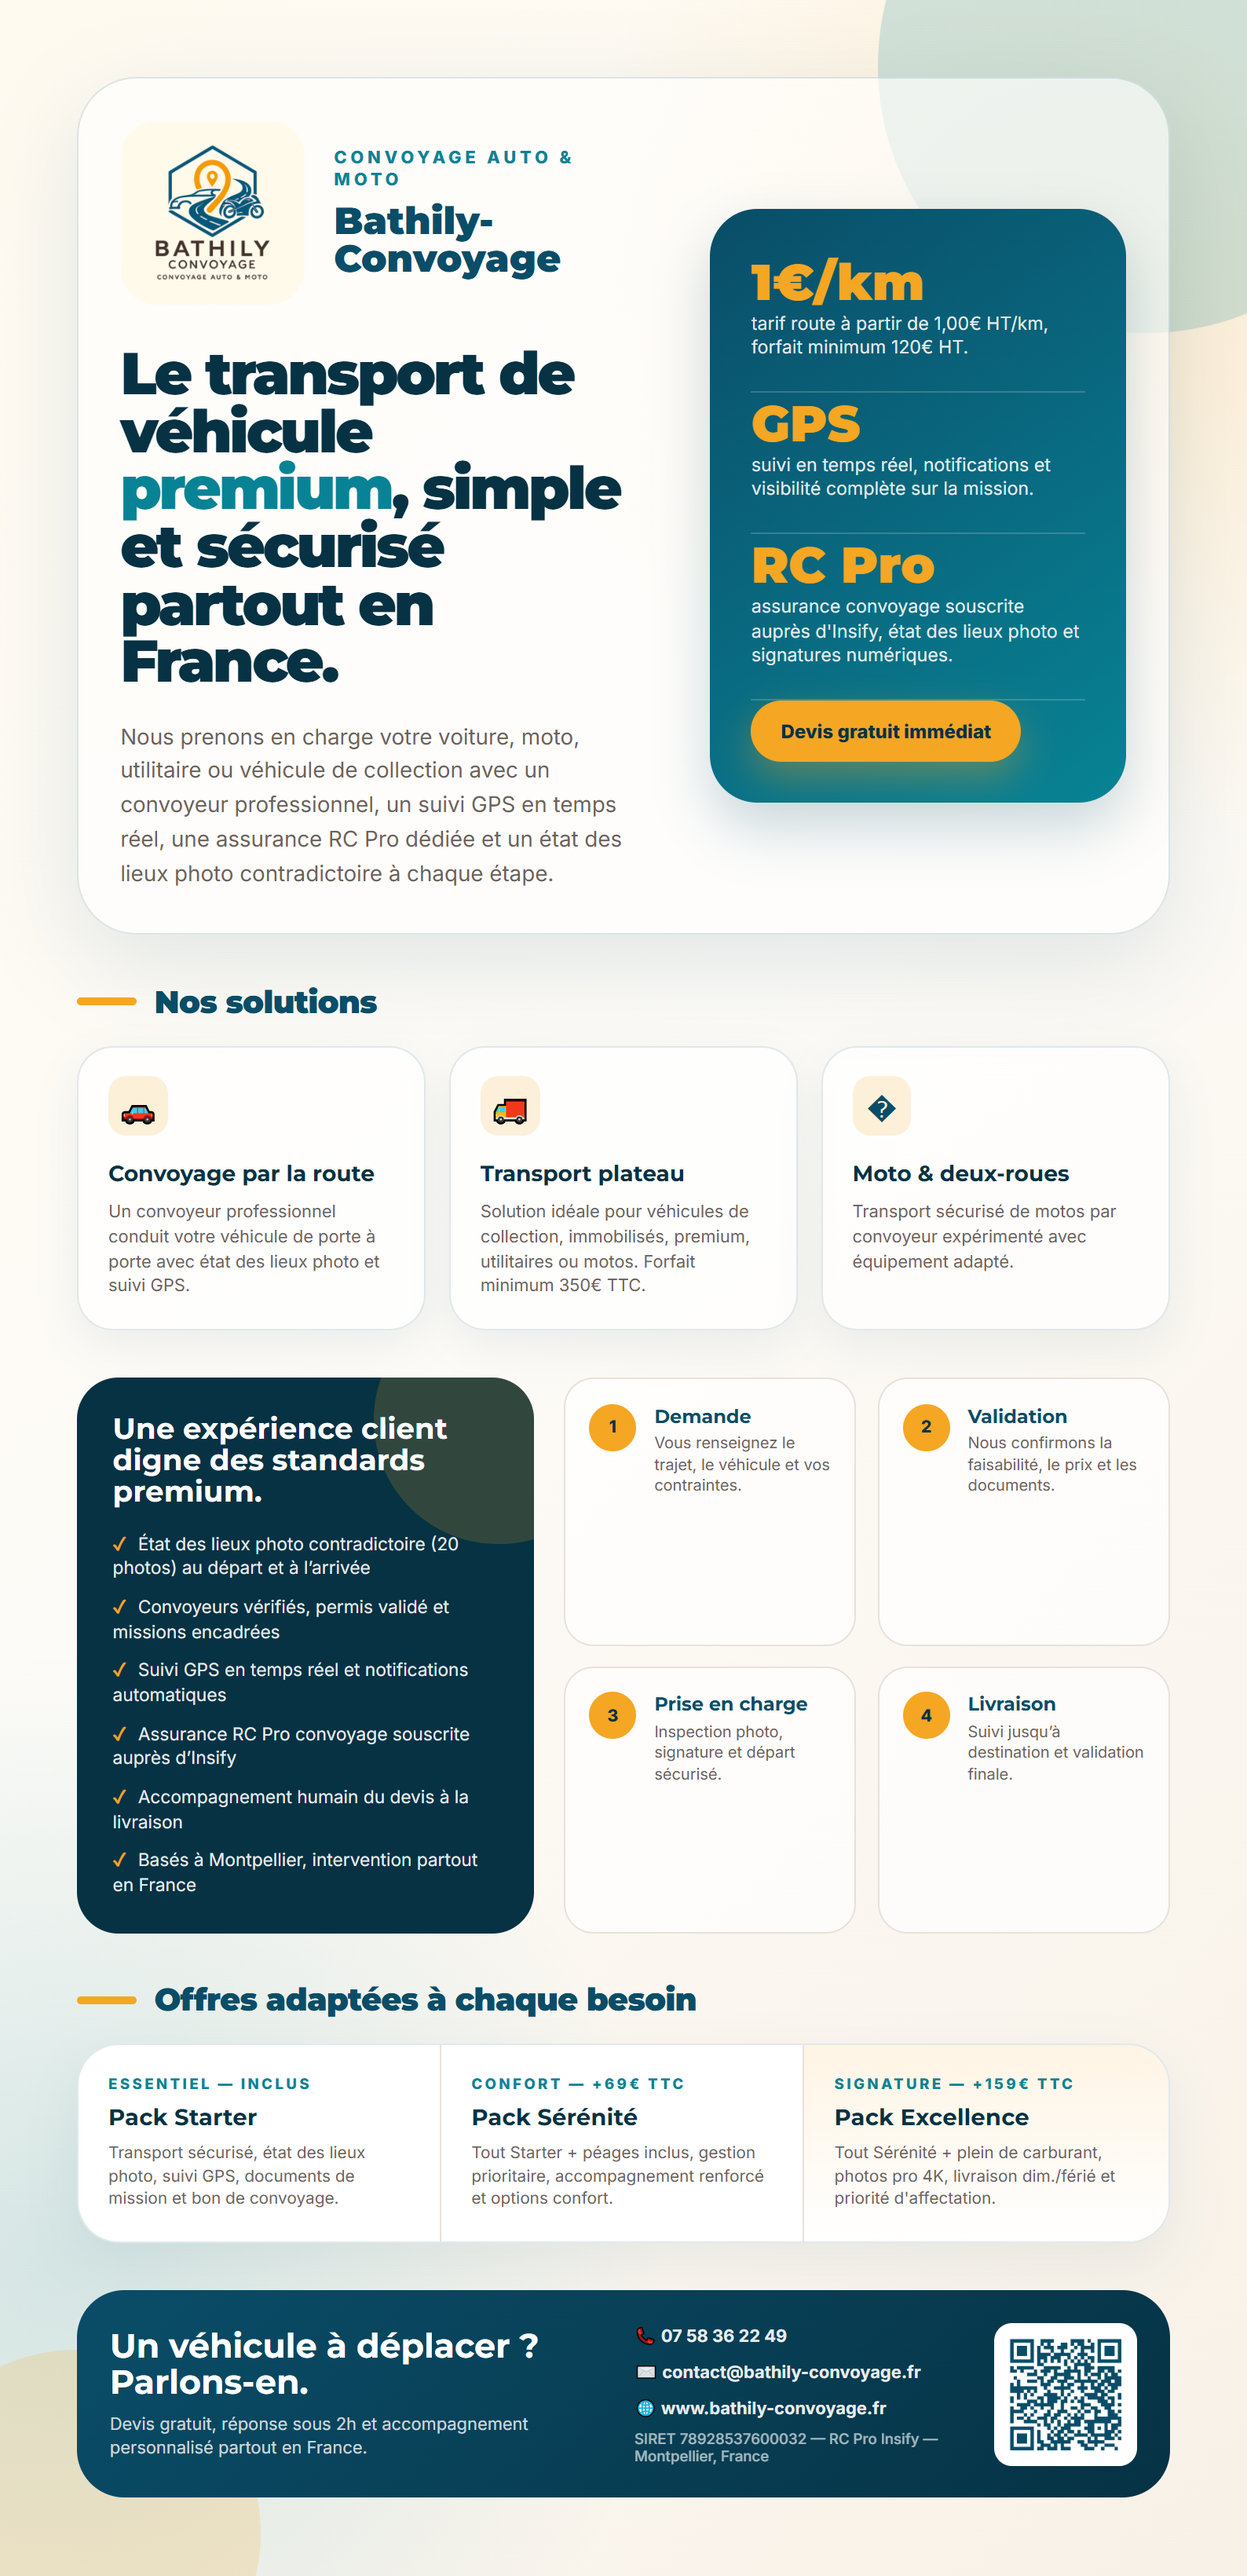
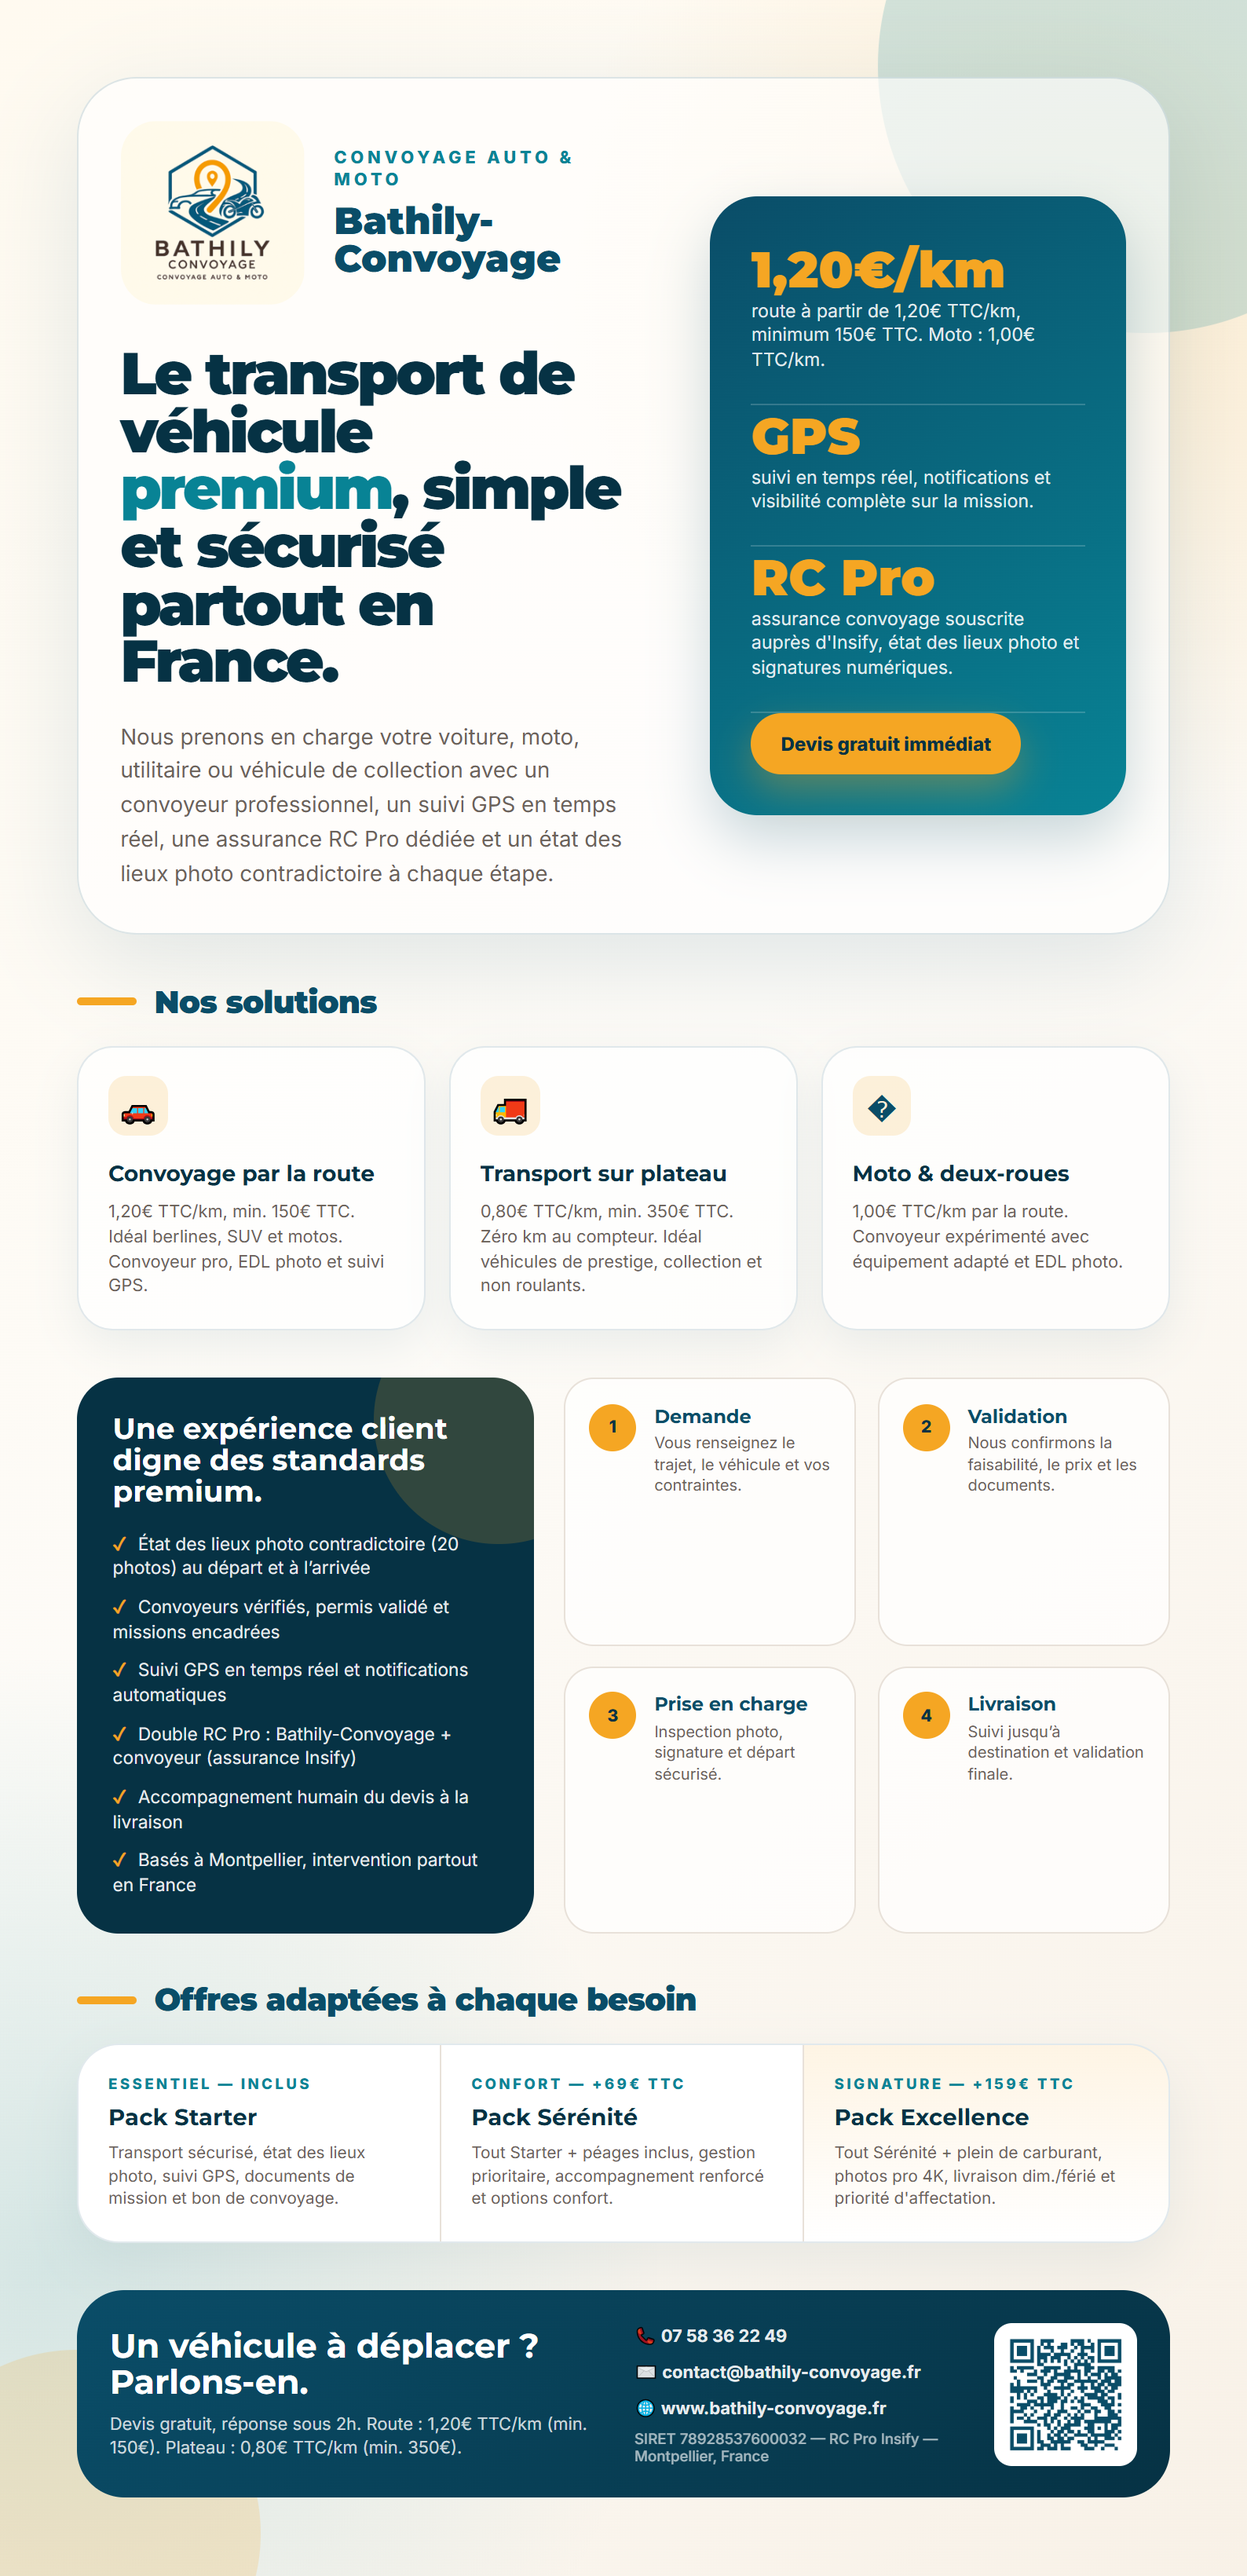
Fix: tarifs corrects sur plaquettes (route 1,20 TTC/km min 150, plateau 0,80 TTC/km min 350, moto 1 TTC/km, double RC Pro)

diff --git a/design/plaquette.html b/design/plaquette.html
@@ -245,7 +245,7 @@
           <p class="lead">Nous prenons en charge votre voiture, moto, utilitaire ou véhicule de collection avec un convoyeur professionnel, un suivi GPS en temps réel, une assurance RC Pro dédiée et un état des lieux photo contradictoire à chaque étape.</p>
         </div>
         <aside class="hero-panel">
-          <div class="metric"><strong>1€/km</strong><span>tarif route à partir de 1,00€ HT/km, forfait minimum 120€ HT.</span></div>
+          <div class="metric"><strong>1,20€/km</strong><span>route à partir de 1,20€ TTC/km, minimum 150€ TTC. Moto : 1,00€ TTC/km.</span></div>
           <div class="metric"><strong>GPS</strong><span>suivi en temps réel, notifications et visibilité complète sur la mission.</span></div>
           <div class="metric"><strong>RC Pro</strong><span>assurance convoyage souscrite auprès d'Insify, état des lieux photo et signatures numériques.</span></div>
           <div class="cta-pill">Devis gratuit immédiat</div>
@@ -255,9 +255,9 @@
       <section class="section">
         <h2 class="section-title">Nos solutions</h2>
         <div class="cards">
-          <article class="card"><div class="icon">🚗</div><h3>Convoyage par la route</h3><p>Un convoyeur professionnel conduit votre véhicule de porte à porte avec état des lieux photo et suivi GPS.</p></article>
-          <article class="card"><div class="icon">🚚</div><h3>Transport plateau</h3><p>Solution idéale pour véhicules de collection, immobilisés, premium, utilitaires ou motos. Forfait minimum 350€ TTC.</p></article>
-          <article class="card"><div class="icon">�</div><h3>Moto & deux-roues</h3><p>Transport sécurisé de motos par convoyeur expérimenté avec équipement adapté.</p></article>
+          <article class="card"><div class="icon">🚗</div><h3>Convoyage par la route</h3><p>1,20€ TTC/km, min. 150€ TTC. Idéal berlines, SUV et motos. Convoyeur pro, EDL photo et suivi GPS.</p></article>
+          <article class="card"><div class="icon">🚚</div><h3>Transport sur plateau</h3><p>0,80€ TTC/km, min. 350€ TTC. Zéro km au compteur. Idéal véhicules de prestige, collection et non roulants.</p></article>
+          <article class="card"><div class="icon">�</div><h3>Moto & deux-roues</h3><p>1,00€ TTC/km par la route. Convoyeur expérimenté avec équipement adapté et EDL photo.</p></article>
         </div>
       </section>
 
@@ -268,7 +268,7 @@
             <li>État des lieux photo contradictoire (20 photos) au départ et à l’arrivée</li>
             <li>Convoyeurs vérifiés, permis validé et missions encadrées</li>
             <li>Suivi GPS en temps réel et notifications automatiques</li>
-            <li>Assurance RC Pro convoyage souscrite auprès d’Insify</li>
+            <li>Double RC Pro : Bathily-Convoyage + convoyeur (assurance Insify)</li>
             <li>Accompagnement humain du devis à la livraison</li>
             <li>Basés à Montpellier, intervention partout en France</li>
           </ul>
@@ -291,7 +291,7 @@
       </section>
 
       <footer class="footer">
-        <div><h2>Un véhicule à déplacer ? Parlons-en.</h2><p>Devis gratuit, réponse sous 2h et accompagnement personnalisé partout en France.</p></div>
+        <div><h2>Un véhicule à déplacer ? Parlons-en.</h2><p>Devis gratuit, réponse sous 2h. Route : 1,20€ TTC/km (min. 150€). Plateau : 0,80€ TTC/km (min. 350€).</p></div>
         <div class="contact-lines"><span>📞 07 58 36 22 49</span><span>✉ contact@bathily-convoyage.fr</span><span>🌐 www.bathily-convoyage.fr</span><span style="font-size:7pt;font-weight:500;opacity:0.7;">SIRET 78928537600032 — RC Pro Insify — Montpellier, France</span></div>
         <img src="../images/qr-devis.png" alt="QR code devis Bathily-Convoyage" class="qr-code">
       </footer>

diff --git a/design/plaquette-pro.html b/design/plaquette-pro.html
@@ -232,9 +232,9 @@
       </div>
       <h1>Convoyage professionnel <span class="highlight">simple, traçable et rentable.</span></h1>
       <p class="lead">Une solution opérationnelle pour concessions, marchands auto, loueurs, garages, gestionnaires de flotte et entreprises multi-sites.</p>
-      <div class="hero-card"><strong>1€/km HT</strong><span>Tarif route à partir de 1,00€ HT/km, forfait minimum 120€ HT. Devis gratuit, réponse sous 2h.</span></div>
+      <div class="hero-card"><strong>1,20€/km TTC</strong><span>Route à partir de 1,20€ TTC/km (min. 150€). Plateau : 0,80€ TTC/km (min. 350€). Devis sous 2h.</span></div>
       <div class="stats">
-        <div class="stat"><strong>RC Pro</strong><span>assurance convoyage Insify, signatures numériques</span></div>
+        <div class="stat"><strong>Double RC Pro</strong><span>Bathily-Convoyage + convoyeur (assurance Insify)</span></div>
         <div class="stat"><strong>EDL Photo</strong><span>20 photos contradictoires au départ et à l’arrivée</span></div>
       </div>
     </section>
@@ -250,7 +250,7 @@
         <h3>Ce que vous gagnez</h3>
         <ul class="offer-list">
           <li>Un interlocuteur unique pour piloter vos demandes</li>
-          <li>Devis gratuit, réponse sous 2h, tarifs HT clairs</li>
+          <li>Devis gratuit sous 2h, tarifs TTC clairs (route 1,20€/km, plateau 0,80€/km)</li>
           <li>Missions documentées : EDL photo, suivi GPS, signatures</li>
           <li>Assurance RC Pro convoyage souscrite auprès d’Insify</li>
           <li>Basés à Montpellier, intervention partout en France</li>
